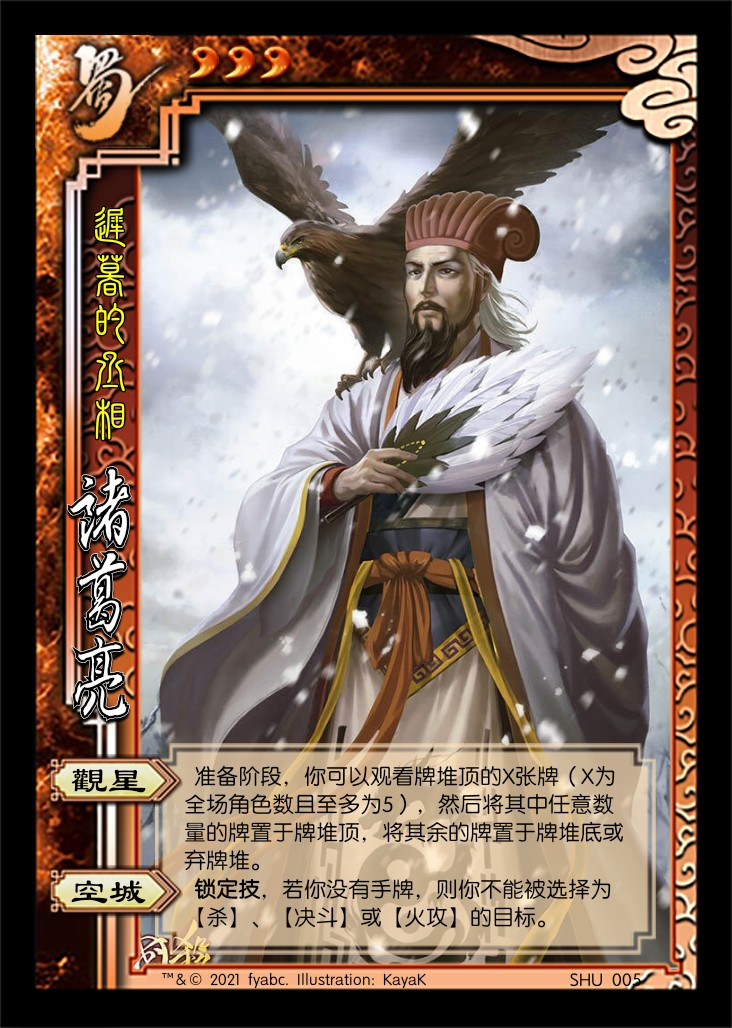
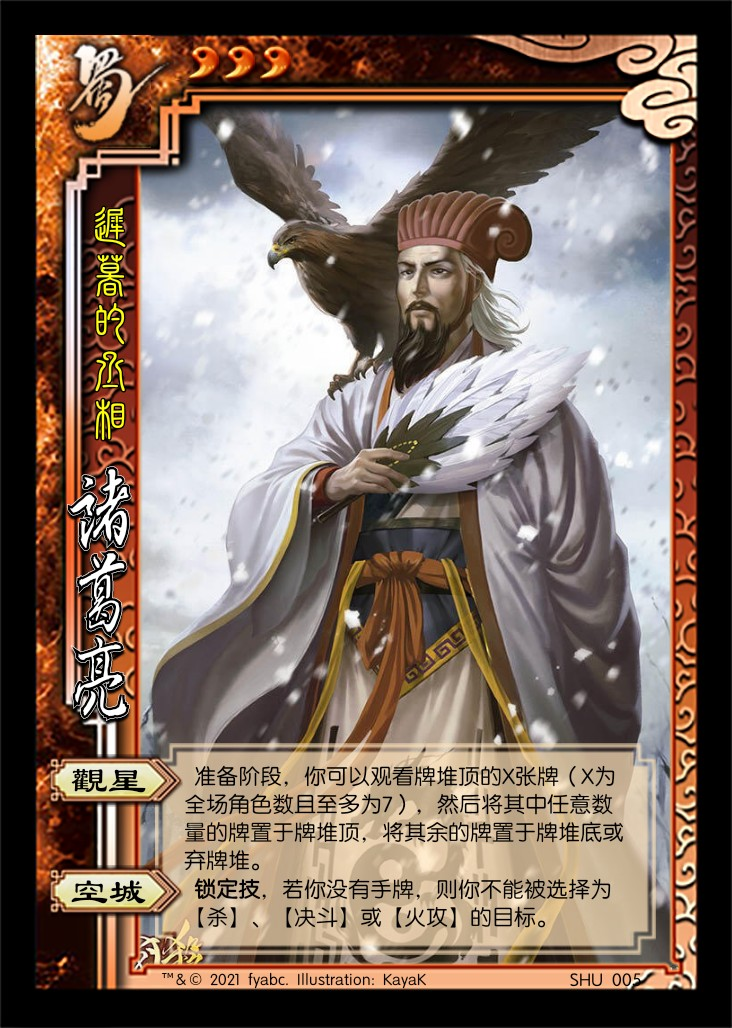
Add ext3 card images.

diff --git a/SanGuoSha/SGS-RebirthProject/ext3.md b/SanGuoSha/SGS-RebirthProject/ext3.md
@@ -2,7 +2,9 @@
 
 ## 新概念
 
-1. 援军牌：类似国战势备篇连横牌，可以在自己的回合将此牌（正面朝上）交给一名其他角色（此动作本身称为支援）。
+1. 援军牌：类似国战势备篇连横牌，可以在自己的回合将此牌（正面朝上）交给一名其他角色（此动作本身称为支援）若援军牌为装备牌，则可以改为直接置入目标角色的装备区。
+
+   > 与官方扩展中的“赠予”机制几乎相同，唯一的区别是支援装备时多了一个置入手牌的选项。
 
 ## 特殊玩法说明
 
@@ -36,6 +38,41 @@
 |     ♣     |  *烂银*  |   杀   | **联军** | **兵**  | *鹊画'* |  杀   | **摧锋'** | **冲阵'** | 雷杀 | 雷杀'  | **无懈** | **勠力** | **勠力** |
 |     ♦     | **决斗** |   桃'   | **联军** |  闪     |  *+1'*  |  闪   |    闪    |    闪     |  闪  |  闪'   |   闪'   |  *铁脊*  | **摧锋** |
 
+统计： 总 164，标+EX 112，扩展3 52  
+注：括号内为扩展3牌数量
+
+1. 基本牌 80 (27) 48.780%
+   1. 杀 39 (11) 23.780%
+      1. 黑色 26 (8) 15.854%
+      2. 红色 13 (3) 7.927%
+      3. 普通杀 25 (5) 15.244%
+      4. 属性杀 14 (6) 8.537%
+         1. 雷杀 9 (4) 5.488%
+         2. 火杀 5 (2) 3.049%
+   2. 闪 23 (9) 14.024%
+      1. ♥ 6 (2) 3.659%
+      2. ♦ 17 (7) 10.366%
+   3. 桃 13 (5) 7.927%
+      1. ♥ 10 (4) 6.098%
+      2. ♦ 3 (1) 1.829%
+   4. 酒 5 (2) 3.049%
+2. **锦囊牌** 56 (19) 34.146%
+   1. 普通 49 (17) 29.878%
+      - 决斗 3 (1) 顺 4 拆 5
+      - 借刀 2 无中 4 无懈 5 (2)
+      - 南蛮 3 万箭 1 桃园 1
+      - 五谷 2 火攻 2 铁索 3
+      - 偷梁 2 (2) 摧锋 3 (3) 冲阵 3 (3) 勠力 3 (3) 联军 3 (3)
+   2. 延时 7 (2) 4.2688%
+      - 闪电 1 乐 2 兵 4 (2)
+3. *装备牌* 28 (6) 17.073%
+   1. 武器 14 (3) 8.537%
+   2. 防具 6 (2) 3.659%
+   3. 坐骑 7 (1) 4.268%
+      1. +1马 4 (1) 2.439%
+      2. -1马 3 1.829%
+   4. 宝物 1 0.610%
+
 > 说明：  
 > 1.增加了锦囊牌比例  
 > 2.增加了两张【兵粮寸断】，反映袁术给孙坚断粮的典故。  
@@ -65,25 +102,29 @@
    > 【冲阵】的结算可能影响多名角色，但目标角色只有下家一人。  
    > 【冲阵】的结算可能转回自己。特殊情况：单挑情况下，【冲阵】类似于双方打出【闪】版本的【决斗】。  
    > 所有【冲阵】均为援军牌，与位置相关的效果相配合，类似官方国战中的【火烧连营】。  
-6. ![铁脊蛇矛](./assets/images/cards/铁脊蛇矛.png) 【铁脊蛇矛】：装备，武器 攻击范围：3  
+6. ![古锭刀](./assets/images/cards/古锭刀.png) 【古锭刀】：装备，武器 攻击范围：2  
+   **锁定技**，当你使用【杀】对目标角色造成伤害时，若该角色没有手牌，则此伤害+1。
+
+   > 此【古锭刀】为援军牌。
+7. ![铁脊蛇矛](./assets/images/cards/铁脊蛇矛.png) 【铁脊蛇矛】：装备，武器 攻击范围：3  
    出牌阶段限一次，当你发动一次支援后，你可以视为使用一张火属性的【杀】。
 
    > 此法使用的火【杀】的使用时机不是出牌阶段内的空闲时间点，因此不计入使用次数限制。
-7. ![鹊画弓](./assets/images/cards/鹊画弓.png) 【鹊画弓】：装备，武器 攻击范围：5  
+8. ![鹊画弓](./assets/images/cards/鹊画弓.png) 【鹊画弓】：装备，武器 攻击范围：5  
    你可以将一张手牌当【杀】使用。若如此做，此【杀】结算完成后，你进行判定，若结果为♠，你移去此【鹊画弓】。
 
    > 引文：“坚取箭，连放两箭，皆被华雄躲过。再放第三箭时，因用力太猛，拽折了鹊画弓，只得弃弓纵马而奔。”  ——《三国演义》
-8. ![烂银铠](./assets/images/cards/烂银铠.png) 【烂银铠】：装备，防具  
+9. ![烂银铠](./assets/images/cards/烂银铠.png) 【烂银铠】：装备，防具  
    **锁定技**，防止你受到的传导伤害；当【烂银铠】进入或离开你的装备区时，你摸一张牌。
 
    > 是否会导致刷牌？  
    > 修改效果，以与支援机制配合？
-9. ![赤帻](./assets/images/cards/赤帻.png) 【赤帻】：装备，防具  
+10. ![赤帻](./assets/images/cards/赤帻.png) 【赤帻】：装备，防具  
    当你攻击范围内的一名其他角色成为【杀】、【决斗】或【冲阵】的目标时，你可以弃置一张手牌，将其转移给你。
 
    > 是否会导致刷牌？  
    > 修改效果，以与支援机制配合？
-10. ![白鹤](./assets/images/cards/白鹤.png) 【白鹤】：装备，+1马
+11. ![白鹤](./assets/images/cards/白鹤.png) 【白鹤】：装备，+1马
 
    > 引文：“凭空虚跃，曹家白鹤。” ——佚名  
    > 传说中曹洪的坐骑。为援军牌，符合“曹洪赠马”的典故。
@@ -98,13 +139,13 @@
    > TODO：改为更高体力或体力上限，并且将技能与体力值关联
 2. ![徐荣](./assets/images/heroes/徐荣.jpg) QUN020 徐荣 男 群 4体力/6上限 称号：玄菟战魔
    1. 【凶镬】：当一名角色受到伤害时，你可以减1点体力上限令此伤害+1。伤害结算完成后，该角色回复1点体力。
-   2. 【杀绝】：当一名角色被黑色的【杀】造成的伤害杀死后，你可以增加1点体力上限并回复1点体力。
+   2. 【杀绝】：当一名角色被【决斗】或黑色的【杀】造成的伤害杀死后，你可以增加1点体力上限并摸一张牌。
 
 3. ![李肃](./assets/images/heroes/李肃.jpg) QUN021 李肃 男 群 3体力/5上限 称号：魔使
 4. ![牛辅](./assets/images/heroes/牛辅.jpg) QUN022 牛辅 男 群 4体力
 5. ![孔融](./assets/images/heroes/孔融.jpg) HAN011 孔融 男 汉 3体力
    1. 【名士】：**锁定技**，当你受到非转化牌造成的伤害时，若此牌的牌名字数大于你的体力值，此伤害-1。
-   2. 【礼让】：出牌阶段，你可以将一张♥手牌当援军牌使用；当你于出牌阶段发动第一次支援后，可以摸一张牌。
+   2. 【礼让】：出牌阶段，你可以将一张♥手牌当援军牌使用；当你支援一张【桃】后，可以摸一张牌。
 6. ![韩馥](./assets/images/heroes/韩馥.jpg) HAN012 韩馥 男 汉 3体力
 7. ![鲍信](./assets/images/heroes/鲍信.jpg) HAN013 鲍信 男 汉 3体力
 8. ![刘虞](./assets/images/heroes/刘虞.jpg) HAN014 刘虞 男 汉 3体力
@@ -120,6 +161,12 @@
    1. 【某某】：出牌阶段，你可以将一张黑色手牌当【摧锋夺锐】使用。若你以此法获得了宝物牌，你回复1点体力。
 
    > 将此武将移动到江东扩展包？
+
+3. ![SP诸葛亮](./assets/images/heroes/SP诸葛亮.jpg) SP-SHU005 诸葛亮 男 蜀 3体力 称号：迟暮的丞相
+   1. 【观星】：准备阶段，你可以观看牌堆顶的X张牌（X为全场角色数且至多为7），然后将其中任意数量的牌置于牌堆顶，将其余的牌置于牌堆底或弃牌堆。
+   2. 【空城】：**锁定技**，若你没有手牌，则你不能被选择为【杀】、【决斗】、【火攻】或支援的目标。
+
+   > 针对支援机制的微调版本，防止支援破空城。
 
 ----
 

diff --git a/SanGuoSha/SGS-RebirthProject/standard.md b/SanGuoSha/SGS-RebirthProject/standard.md
@@ -159,9 +159,10 @@
 
    > 根据国战的张飞做了一些加强。
 5. ![诸葛亮](./assets/images/heroes/诸葛亮.jpg) SHU005 诸葛亮 男 蜀 3体力 称号：迟暮的丞相
-   1. 【观星】：准备阶段，你可以观看牌堆顶的X张牌（X为全场角色数且至多为5），然后将其中任意数量的牌置于牌堆顶，将其余的牌置于牌堆底或弃牌堆。
+   1. 【观星】：准备阶段，你可以观看牌堆顶的X张牌（X为全场角色数且至多为7），然后将其中任意数量的牌置于牌堆顶，将其余的牌置于牌堆底或弃牌堆。
    2. 【空城】：**锁定技**，若你没有手牌，则你不能被选择为【杀】、【决斗】或【火攻】的目标。
 
+   > 【观星】的上限由5改为7，稍有加强，且与神诸葛“七星”一致。
    > 【观星】其余的牌中，几张置于牌堆底，几张置于弃牌堆是自己任选的，且置于弃牌堆的牌不被视为弃置。  
    > 与【火攻】的修改对应，这里增加了对【火攻】的防御。
 6. ![赵云](./assets/images/heroes/赵云-v2.jpg) SHU006 赵云 男 蜀 4体力 称号：少年将军

diff --git a/SanGuoSha/SGS-RebirthProject/real-cards.md b/SanGuoSha/SGS-RebirthProject/real-cards.md
@@ -12,3 +12,4 @@
 10. [ ] 标准：曹操、孙策卡牌重印（去掉知乎水印）
 11. [ ] 扩展1：皇甫嵩、张燕卡牌重印（去掉知乎水印）
 12. [ ] 标准：刘协、关羽、吕布描述改动
+13. [ ] 标准：诸葛亮描述改动
